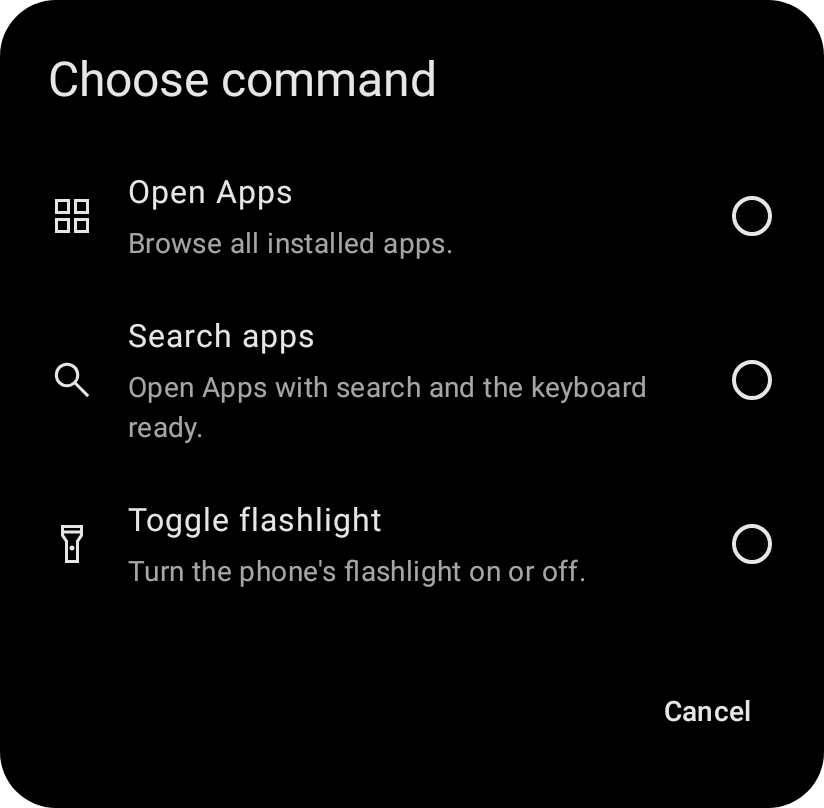
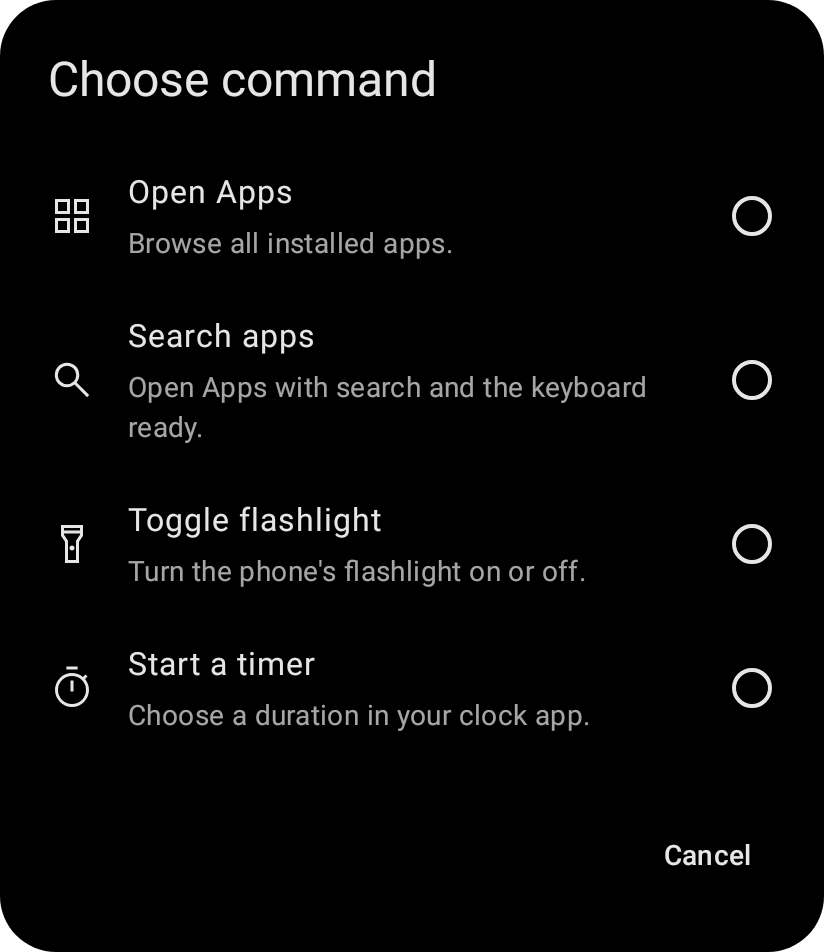
Add the system timer command to nia 1.5.0

diff --git a/app/src/test/java/dev/robinsiegl/nia/SystemTimerCommandTest.kt b/app/src/test/java/dev/robinsiegl/nia/SystemTimerCommandTest.kt
@@ -1,0 +1,109 @@
+package dev.robinsiegl.nia
+
+import android.Manifest
+import android.app.Application
+import android.content.Intent
+import android.content.pm.ActivityInfo
+import android.content.pm.PackageManager
+import android.content.pm.ResolveInfo
+import android.provider.AlarmClock
+import androidx.lifecycle.ViewModelStore
+import androidx.test.core.app.ApplicationProvider
+import dev.robinsiegl.nia.data.PreferencesStore
+import dev.robinsiegl.nia.model.*
+import kotlinx.coroutines.Dispatchers
+import kotlinx.coroutines.ExperimentalCoroutinesApi
+import kotlinx.coroutines.flow.filterNotNull
+import kotlinx.coroutines.flow.first
+import kotlinx.coroutines.runBlocking
+import kotlinx.coroutines.test.UnconfinedTestDispatcher
+import kotlinx.coroutines.test.resetMain
+import kotlinx.coroutines.test.setMain
+import kotlinx.coroutines.withTimeout
+import org.junit.Assert.*
+import org.junit.Test
+import org.junit.runner.RunWith
+import org.robolectric.RobolectricTestRunner
+import org.robolectric.Shadows.shadowOf
+import org.robolectric.annotation.Config
+import org.robolectric.shadows.ShadowSystemClock
+import java.time.Duration
+
+@RunWith(RobolectricTestRunner::class)
+@Config(sdk = [35])
+@OptIn(ExperimentalCoroutinesApi::class)
+class SystemTimerCommandTest {
+    private val preferences = LauncherPreferences(
+        clock = AppTarget("example.other", ".ChosenHeaderApp"),
+        homeShortcuts = listOf(HomeShortcut("timer", "Tea", ShortcutIcon.TIMER, command = ShortcutCommand.START_TIMER)),
+        leftShortcut = CornerShortcut(ShortcutAction.COMMAND, ShortcutIcon.TIMER, command = ShortcutCommand.START_TIMER),
+        rightShortcut = CornerShortcut(ShortcutAction.COMMAND, ShortcutIcon.STAR, command = ShortcutCommand.START_TIMER),
+    )
+
+    private fun registerTimer(app: Application) {
+        shadowOf(app.packageManager).addResolveInfoForIntent(Intent(AlarmClock.ACTION_SET_TIMER), ResolveInfo().apply {
+            activityInfo = ActivityInfo().apply { packageName = "example.clock"; name = "example.clock.TimerActivity"; exported = true }
+        })
+    }
+
+    private fun assertTimer(intent: Intent?) {
+        assertNotNull(intent)
+        requireNotNull(intent)
+        assertEquals(AlarmClock.ACTION_SET_TIMER, intent.action)
+        assertFalse("The user chooses a duration in the Clock app", intent.hasExtra(AlarmClock.EXTRA_LENGTH))
+        assertFalse(intent.getBooleanExtra(AlarmClock.EXTRA_SKIP_UI, true))
+        assertTrue(intent.flags and Intent.FLAG_ACTIVITY_NEW_TASK != 0)
+        assertNull("Android chooses a compatible timer app", intent.component)
+        assertNull(intent.`package`)
+    }
+
+    private fun withModel(test: suspend (Application, LauncherViewModel) -> Unit) = runBlocking {
+        Dispatchers.setMain(UnconfinedTestDispatcher())
+        val app = ApplicationProvider.getApplicationContext<Application>()
+        val store = PreferencesStore(app)
+        val holder = ViewModelStore()
+        try {
+            shadowOf(app).checkActivities(true)
+            store.replace(SavedState(preferences, true))
+            val model = LauncherViewModel(app)
+            holder.put("nia", model)
+            withTimeout(10_000) { model.saved.filterNotNull().first { it.preferences == preferences } }
+            test(app, model)
+        } finally { holder.clear(); store.reset(); Dispatchers.resetMain() }
+    }
+
+    @Test fun `Home and both corners open the system timer setup without starting a preset`() = withModel { app, model ->
+        registerTimer(app)
+        val permissions = app.packageManager.getPackageInfo(app.packageName, PackageManager.GET_PERMISSIONS).requestedPermissions.orEmpty()
+        assertTrue(Manifest.permission.SET_ALARM in permissions)
+        assertFalse(Manifest.permission.SCHEDULE_EXACT_ALARM in permissions)
+        assertFalse(Manifest.permission.USE_EXACT_ALARM in permissions)
+        model.openApps()
+        model.openHomeShortcut("timer")
+        assertTimer(shadowOf(app).nextStartedActivity)
+        assertEquals(Screen.Home, model.navigation.value.screen)
+        model.openCorner(CornerPosition.LEFT)
+        assertNull("Rapid duplicate external launches stay blocked", shadowOf(app).nextStartedActivity)
+        CornerPosition.entries.forEach { position ->
+            ShadowSystemClock.advanceBy(Duration.ofMillis(500))
+            model.openCorner(position)
+            assertTimer(shadowOf(app).nextStartedActivity)
+        }
+        assertEquals(preferences, model.saved.value!!.preferences)
+    }
+
+    @Test fun `a missing timer app preserves navigation and a successful retry is not blocked`() = withModel { app, model ->
+        model.openApps()
+        model.openHomeShortcut("timer")
+        val message = withTimeout(1_000) { model.messages.first() }
+        assertEquals("No timer app could be opened. Install or enable a Clock app and try again.", message)
+        assertEquals(Screen.Apps, model.navigation.value.screen)
+        assertEquals(preferences, model.saved.value!!.preferences)
+        shadowOf(app).clearNextStartedActivities()
+        registerTimer(app)
+        // No delay: a failed external launch must release the shared launch gate.
+        model.openCorner(CornerPosition.RIGHT)
+        assertTimer(shadowOf(app).nextStartedActivity)
+        assertEquals(Screen.Home, model.navigation.value.screen)
+    }
+}

diff --git a/app/src/test/java/dev/robinsiegl/nia/ShortcutActionsUiTest.kt b/app/src/test/java/dev/robinsiegl/nia/ShortcutActionsUiTest.kt
@@ -95,6 +95,22 @@ class ShortcutActionsUiTest {
         assertEquals(original, draft.shortcut)
         rule.onNodeWithText("Opens").assertIsDisplayed()
     }
+    @Test fun `a new timer shortcut uses the shared command picker and keeps its default name and icon`() {
+        var draft by mutableStateOf(HomeShortcutDraft(HomeShortcut("timer", ""), true))
+        var saved: HomeShortcut? = null
+        render(light = true) { HomeShortcutEditorScreen(draft, emptyList(), false,
+            { draft = draft.copy(shortcut = it(draft.shortcut)) }, {}, { saved = draft.shortcut }, {}, {}) }
+        rule.onNodeWithText("Command").performClick()
+        rule.onNodeWithText("Start a timer").performScrollTo().performClick()
+        assertNull(saved)
+        assertEquals(ShortcutCommand.START_TIMER, draft.shortcut.command)
+        assertEquals("Timer", draft.shortcut.name)
+        assertEquals(ShortcutIcon.TIMER, draft.shortcut.icon)
+        assertNull(draft.shortcut.app)
+        capture("timer-shortcut-editor")
+        rule.onNodeWithText("Save").performScrollTo().performClick()
+        assertEquals(draft.shortcut, saved)
+    }
     @Test fun `Quick corners can choose the same commands and icon picker without changing Home`() {
         val home = listOf(HomeShortcut("notes", "Notes", app = notes.target))
         var p by mutableStateOf(LauncherPreferences(homeShortcuts = home))
@@ -126,8 +142,8 @@ class ShortcutActionsUiTest {
             ShortcutCommandPicker(ShortcutCommand.OPEN_APPS, {}, { chosen = it })
         }
         rule.onNode(hasText("Open Apps") and isSelectable()).assertIsSelected()
-        rule.onNodeWithText("Toggle flashlight").performScrollTo().assertIsDisplayed().performClick()
-        assertEquals(ShortcutCommand.FLASHLIGHT, chosen)
+        rule.onNodeWithText("Start a timer").performScrollTo().assertIsDisplayed().performClick()
+        assertEquals(ShortcutCommand.START_TIMER, chosen)
         capture("shortcut-command-picker-large")
     }
 }

diff --git a/app/src/main/java/dev/robinsiegl/nia/LauncherViewModel.kt b/app/src/main/java/dev/robinsiegl/nia/LauncherViewModel.kt
@@ -251,6 +251,13 @@ class LauncherViewModel(application: Application) : AndroidViewModel(application
         when (command) {
             ShortcutCommand.OPEN_APPS -> openApps()
             ShortcutCommand.SEARCH_APPS -> openApps(search = true)
+            ShortcutCommand.START_TIMER -> launch {
+                try { repository.startTimer(); home() }
+                catch (_: RuntimeException) {
+                    launchGate.reset()
+                    events.trySend("No timer app could be opened. Install or enable a Clock app and try again.")
+                }
+            }
             ShortcutCommand.FLASHLIGHT -> perform("The flashlight is unavailable right now.") {
                 when (flashlight.value.toggle()) {
                     FlashlightResult.CHANGED -> Unit

diff --git a/app/src/main/java/dev/robinsiegl/nia/platform/AppRepository.kt b/app/src/main/java/dev/robinsiegl/nia/platform/AppRepository.kt
@@ -64,6 +64,13 @@ class AppRepository(private val context: Context) {
         context.startActivity(Intent(AlarmClock.ACTION_SHOW_ALARMS).addFlags(Intent.FLAG_ACTIVITY_NEW_TASK))
     }
 
+    fun startTimer() {
+        // Omitting LENGTH opens the clock app's timer setup instead of starting a preset.
+        context.startActivity(Intent(AlarmClock.ACTION_SET_TIMER)
+            .putExtra(AlarmClock.EXTRA_SKIP_UI, false)
+            .addFlags(Intent.FLAG_ACTIVITY_NEW_TASK))
+    }
+
     fun isDefaultHome(): Boolean {
         val role = context.getSystemService(RoleManager::class.java)
         return role.isRoleAvailable(RoleManager.ROLE_HOME) && role.isRoleHeld(RoleManager.ROLE_HOME)

diff --git a/app/src/main/java/dev/robinsiegl/nia/model/ShortcutCommand.kt b/app/src/main/java/dev/robinsiegl/nia/model/ShortcutCommand.kt
@@ -8,6 +8,7 @@ enum class ShortcutCommand(val label: String, val description: String, val icon:
     OPEN_APPS("Open Apps", "Browse all installed apps.", ShortcutIcon.APP_GRID, "Apps"),
     SEARCH_APPS("Search apps", "Open Apps with search and the keyboard ready.", ShortcutIcon.SEARCH, "Search"),
     FLASHLIGHT("Toggle flashlight", "Turn the phone's flashlight on or off.", ShortcutIcon.FLASHLIGHT, "Flashlight"),
+    START_TIMER("Start a timer", "Choose a duration in your clock app.", ShortcutIcon.TIMER, "Timer"),
 }
 
 /** Ignore stale drag results rather than dropping a shortcut added or removed during the gesture. */

diff --git a/docs/ROADMAP.md b/docs/ROADMAP.md
@@ -13,7 +13,7 @@ Version 1.4.0 is published. Prepare this Home interaction and command update as 
 | Arrangement | Long-press drag on Home and in Settings → Home shortcuts, edge scrolling for long lists, and accessible alternatives |
 | Home content | Zero to nine editable app/command shortcuts; no automatic, reserved or sticky Apps entry |
 | App menu | Add to Home with a prefilled editor, App info and either Quick corner |
-| Commands | Optional Open Apps, Search apps and Toggle flashlight on Home or in a Quick corner |
+| Commands | Optional Open Apps, Search apps, Toggle flashlight and Start a timer on Home or in a Quick corner |
 
 ### Opening Apps from Home
 
@@ -31,7 +31,7 @@ Keep one saved order across layouts. Preview a drag locally, save one validated 
 
 App-list Add to Home opens a draft with the app already assigned. Save applies the shortcut; Back discards it. Names and outline icons remain independent of the chosen app or command. The shared picker includes 193 bundled Material Symbols.
 
-Commands are a typed allowlist, not arbitrary intents or scripts. Open Apps follows the normal keyboard preference; Search apps overrides it for that opening only. Toggle flashlight uses Android's public torch API and actual torch callbacks, handles unavailable hardware/camera resources and adds no camera permission or camera session. Extra commands such as a timer or an appearance switch can be considered after feedback.
+Commands are a typed allowlist, not arbitrary intents or scripts. Open Apps follows the normal keyboard preference; Search apps overrides it for that opening only. Toggle flashlight uses Android's public torch API and actual torch callbacks, handles unavailable hardware/camera resources and adds no camera permission or camera session. Start a timer hands duration selection and all timer behavior to a compatible Clock app through Android's timer action; nia adds no timer service. Extra commands such as an appearance switch can be considered after feedback.
 
 ### Compatibility
 
@@ -49,6 +49,7 @@ Run the automated checks and inspect native light/dark, intermediate-scroll and 
 - Real drags across grid rows, list and Settings edge scrolling, canceled drags, accessible arrangement and immediate taps/swipes afterward.
 - Add to Home from filtered Apps, draft cancellation, full-Home feedback, command changes and search focus only after settling.
 - Flashlight toggling, changes from Quick Settings, a busy camera, unavailable hardware and normal callback cleanup.
+- Start a timer from Home and both corners, choose a duration in Clock, return to nia and verify that Clock rings and cancels normally. Check missing/disabled timer apps and retry without a blocked shortcut.
 - Unlock, Battery Saver, Quick Settings interruption, Android Home and ordinary app returns without replaying unlock effects.
 
 Keep physical-phone results separate from Robolectric simulations. The [design](DESIGN.md) and [architecture](ARCHITECTURE.md) guides own lasting product and implementation rules.

diff --git a/docs/ARCHITECTURE.md b/docs/ARCHITECTURE.md
@@ -108,7 +108,9 @@ Keep the empty-space long-press pointer handler attached with stable keys and ch
 
 Measure each reorder slot outside its lifted/translated content. Publish the pointer and proposed order in one snapshot, then place the lifted item relative to its untransformed slot. Verify that its visible bounds follow the finger, as well as checking the saved order.
 
-Commands are an enum allowlist, not serialized intents. The ViewModel dispatches Open Apps, Search apps and Toggle flashlight. `FlashlightController` uses the application context and public `CameraManager` torch API, chooses a flash-capable camera, observes actual torch changes (including Quick Settings), handles unavailable resources and unregisters callbacks on cleanup. Camera enumeration and torch calls stay off the main thread; no camera session or CAMERA permission is needed. See [CameraManager](https://developer.android.com/reference/android/hardware/camera2/CameraManager#setTorchMode(java.lang.String,%20boolean)).
+Commands are an enum allowlist, not serialized intents. The ViewModel dispatches Open Apps, Search apps, Toggle flashlight and Start a timer. `FlashlightController` uses the application context and public `CameraManager` torch API, chooses a flash-capable camera, observes actual torch changes (including Quick Settings), handles unavailable resources and unregisters callbacks on cleanup. Camera enumeration and torch calls stay off the main thread; no camera session or CAMERA permission is needed. See [CameraManager](https://developer.android.com/reference/android/hardware/camera2/CameraManager#setTorchMode(java.lang.String,%20boolean)).
+
+`AppRepository.startTimer()` sends the public `AlarmClock.ACTION_SET_TIMER` intent with no length and `EXTRA_SKIP_UI=false`. Android selects a compatible handler, independently of nia's header Clock assignment. The Clock app owns duration entry, the countdown, alerts and cancellation. Declare the normal `com.android.alarm.permission.SET_ALARM` permission; do not add exact-alarm access, a timer service, notification access or an extra runtime prompt. Start the activity directly and handle an unavailable/disabled handler, without querying installed timer apps. External timer launches share the launch gate and reset it on failure so retry works immediately. See [AlarmClock](https://developer.android.com/reference/android/provider/AlarmClock#ACTION_SET_TIMER).
 
 ## Unlock and input reliability
 

diff --git a/docs/DEVICE_TESTING.md b/docs/DEVICE_TESTING.md
@@ -72,6 +72,7 @@ The primary phone is reported to run Android 17. Record what is actually install
 - Drag toward the top/bottom of long Home and Settings lists. Scroll the list and reach off-screen positions without starting the Apps gesture. Reorder the optional Apps command like any other entry. Check the Move up/down alternatives with TalkBack and a keyboard.
 - Open Apps and Search apps from Home and both corners. Search apps focuses only after settling and does not change Keyboard on open. A later ordinary opening follows the saved preference.
 - Toggle flashlight repeatedly and change its state through Quick Settings between taps. Test a busy camera, absent flash and process/activity recreation. Report unavailable hardware without crashing; add no camera permission prompt or camera session.
+- Start a timer from Home and either Quick corner. Open the Clock app's duration entry without a preset or automatic countdown, choose a duration there, then return Home. Let Clock ring and cancel the timer there, including after nia is stopped. Try multiple compatible Clock apps, a disabled/missing handler and an immediate retry after failure. Keep existing assignments and show a useful error if no app can open. No exact-alarm access or runtime permission prompt should appear in nia.
 - Export and restore mixed app/command shortcuts and corners. Preview command changes, preserve names/icons/order, and reject unknown command IDs, simultaneous app/command targets and command fields disguised as old schema versions.
 
 ## Icon picker

diff --git a/README.md b/README.md
@@ -31,7 +31,7 @@ Choose from **193 Material Symbols** with searchable names, keywords and categor
 
 Swipe up to open an alphabetical list of app names. The clock shrinks as your shortcuts move upward; long lists then scroll before handing off to Apps. A small chevron and one light haptic mark the deliberate pull. The icon grid stays on one screen. Search by name, initials or words in any order, or enable A–Z navigation to jump through the list.
 
-You can have the keyboard open automatically when Apps is ready. Prefer a visible shortcut? Add **Open Apps** or **Search apps** wherever you want; neither is added automatically. **Toggle flashlight** is available as another optional command. When a search finds just one app, press Enter to open it. Touch and hold an app name to add it to Home, open App info or assign it to a Quick corner.
+You can have the keyboard open automatically when Apps is ready. Prefer a visible shortcut? Add **Open Apps** or **Search apps** wherever you want; neither is added automatically. **Toggle flashlight** and **Start a timer** are available as optional commands too. The timer opens your Clock app so you can choose a duration there. When a search finds just one app, press Enter to open it. Touch and hold an app name to add it to Home, open App info or assign it to a Quick corner.
 
 <p>
   <img src="docs/screenshots/home-scroll-mid.png" width="220" alt="The same clock shrinking as the Home shortcuts move upward" />

diff --git a/CHANGELOG.md b/CHANGELOG.md
@@ -4,6 +4,7 @@
 
 - Replace the fading Home header with one clock/date that continuously shrinks as the shortcuts move upward. Simplify the Apps pull to a chevron and one threshold haptic, and fix the large-text list handoff.
 - Remove the automatic and sticky Apps entry. Allow up to nine editable shortcuts, each opening an app or running Open Apps, Search apps or Toggle flashlight. Commands are optional on Home and in Quick corners.
+- Add Start a timer on Home and in Quick corners. Open a compatible Clock app's timer setup through Android, leaving duration selection, timing, alerts and cancellation to that app. Handle missing apps and duplicate taps without adding a nia timer service.
 - Add long-press drag reordering on Home and in Settings → Home shortcuts, with local previews, edge scrolling, cancellation and keyboard/accessibility alternatives.
 - Add Add to Home to the redesigned app action menu, opening a prefilled shortcut editor. Preserve App info and Quick corner assignments.
 - Export backup schema 7 with validated command targets and continue importing schemas 1–6 without adding a new Apps shortcut. Preserve existing names, icons, targets, order and header assignments.

diff --git a/docs/PRIVACY.md b/docs/PRIVACY.md
@@ -14,6 +14,8 @@ Your chosen apps and commands, layout, colors, app-list preferences and unfinish
 
 Open Apps and Search apps use nia's local app list. Toggle flashlight uses Android's torch control and observes its current on/off state. It does not open the camera, capture images, request camera permission or send torch state elsewhere. Android and other apps can change or make the flashlight unavailable.
 
+Start a timer opens a compatible Clock app through Android. That app handles the duration you enter, countdown, alerts and cancellation under its own settings. nia does not run a timer in the background or record timer history. Android's normal Set alarm permission allows this handoff; nia does not request exact-alarm access or a runtime permission prompt for it.
+
 ## Backups
 
 **Save backup** creates a JSON file wherever you choose through Android's document picker. It contains nia's preferences and assigned app identifiers. It does not contain other apps' data, a complete app inventory, search history or setup progress. If you save to a cloud document provider, that provider handles the file under its own policies.

diff --git a/docs/DESIGN.md b/docs/DESIGN.md
@@ -33,6 +33,8 @@ Keep the rest of Home open. Folders, widgets, badges and feeds remain outside th
 
 Swipe up and an optional Open Apps command open the same drawer. Search apps opens it with search focused after settling. Expose Open Apps through Home accessibility actions when no visible command is configured. Pulling down dismisses it only when its list is already at the top. Back dismisses the keyboard before closing Apps; Android Home returns to a clean Home without an old query or keyboard. App selectors keep selection simple; app action menus belong in the full app list.
 
+Start a timer opens a compatible Clock app's timer setup. Let the user choose the duration and manage the timer there; keep nia free of a second timer interface, countdown or alarm service. Use the same command picker and editable outline icon on Home and in Quick corners.
+
 ## Color and typography
 
 Use the shared `Palette` and `NiaTheme` across launcher-owned surfaces.
